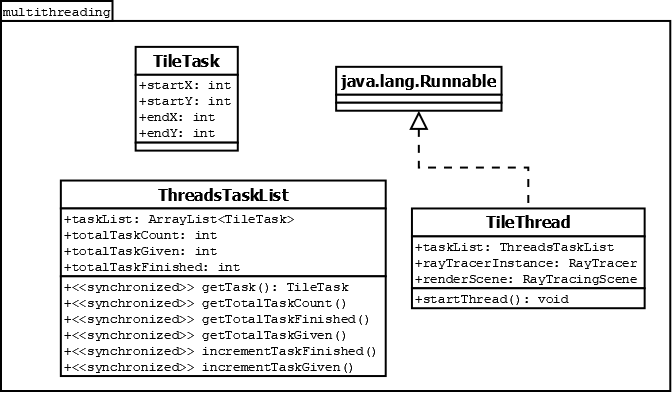
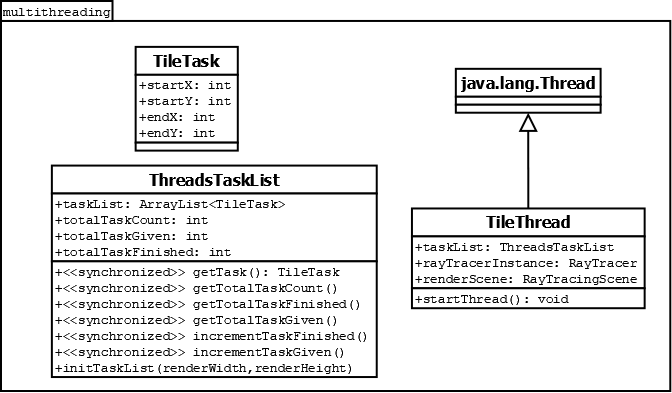
Correction de la dépendance des nombres aléatoires sur les threads. Mise à jour du diagramme multithreading

diff --git a/dev/src/rayTracer/RayTracer.java b/dev/src/rayTracer/RayTracer.java
@@ -103,7 +103,7 @@ public class RayTracer
 	private ThreadsTaskList threadTaskList;
 	private IntBuffer renderedPixels;
 	private PixelReader skyboxPixelReader = null;
-	private Random randomGenerator;
+	private Random randomGenerator;//Générateur de nombre aléatoire qui servira uniquement au thread principal
 	
 	public RayTracer(int renderWidth, int renderHeight)
 	{
@@ -257,9 +257,21 @@ public class RayTracer
 					reflectDirection = perfectReflectDirection;
 				else
 				{
-					double randomX = randomGenerator.nextDouble() * 2 - 1;
-					double randomY = randomGenerator.nextDouble() * 2 - 1;
-					double randomZ = randomGenerator.nextDouble() * 2 - 1;
+					double randomX;
+					double randomY;
+					double randomZ;
+					
+					Thread currentThread = Thread.currentThread();
+					Random localRandomGenerator = null;
+					
+					if(currentThread instanceof TileThread)//Si le thread courant n'est pas le thread principal mais un thread de calcul
+						localRandomGenerator = ((TileThread)currentThread).getLocalRandomGenerator();//On récupère le générateur de nombre aléatoire local au thread de calcul
+					else
+						localRandomGenerator = this.randomGenerator;
+					
+					randomX = localRandomGenerator.nextDouble() * 2 - 1;
+					randomY = localRandomGenerator.nextDouble() * 2 - 1;
+					randomZ = localRandomGenerator.nextDouble() * 2 - 1;
 					
 					Vector randomBounce = Vector.normalizeV(Vector.add(Vector.normalizeV(new Vector(randomX, randomY, randomZ)), intInfos.getNormInt()));
 					Vector randomBounceDirection = Vector.normalizeV(Vector.interpolate(perfectReflectDirection, randomBounce, intInfos.getIntObjMat().getRoughness()));
@@ -438,6 +450,15 @@ public class RayTracer
 	 */
 	protected void computePartialImage(RayTracingScene renderScene, int startX, int startY, int endX, int endY)
 	{
+		Thread currentThread = Thread.currentThread();
+		Random localRandomGenerator = null;
+		if(currentThread instanceof TileThread)
+			localRandomGenerator = ((TileThread)currentThread).getLocalRandomGenerator();
+		else
+			localRandomGenerator = this.randomGenerator;
+		localRandomGenerator.setSeed(Integer.parseInt(String.format("%d%d", startX, startY)));//On réinitialise la graine du générateur pour la tuile à calculer avec un nombre
+		//unique construit à partir des coordonnées de départ de la tuile
+		
 		MatrixD ctwMatrix = renderScene.getCamera().getCTWMatrix();
 
 		double FOV = renderScene.getCamera().getFOV();
@@ -454,7 +475,7 @@ public class RayTracer
 				}
 				else
 				{
-					subpixelTab = new double[1][2];//Un seul pixel sera calculé pour chaque pixel
+					subpixelTab = new double[1][2];//Un seul sous-pixel sera calculé pour chaque pixel
 					subpixelTab[0][0] = 0;
 					subpixelTab[0][1] = 0;
 				}
@@ -846,13 +867,14 @@ public class RayTracer
 		}
 		
 		this.settings = new RayTracerSettings(renderSettings);//On crée une nouvelle instance de RayTracerSettings pour ne pas "lier dynamiquement" les réglages : cela pourrait causer des déchirement d'image lorsqu'on change les réglages pendant un rendu
-		this.threadTaskList.initTaskList(settings.getNbCore(), renderWidth, renderHeight);
+		this.threadTaskList.initTaskList(renderWidth, renderHeight);
+		this.randomGenerator = new Random(0);//On réinitialise le générateur de nombre avec la graine 0
 		
 		if(renderScene.hasSkybox())
 			this.skyboxPixelReader = renderScene.getSkyboxPixelReader();
 
 		for(int i = 1; i < settings.getNbCore(); i++)//Création des threads sauf 1, le thread principal, qui est déjà créé
-			new Thread(new TileThread(threadTaskList, this, renderScene), String.format("RT-Thread %d", i)).start();
+			new TileThread(threadTaskList, this, renderScene).start();
 
 		while(threadTaskList.getTotalTaskFinished() < threadTaskList.getTotalTaskCount())
 			this.computeTask(renderScene, threadTaskList);

diff --git a/rapport/latex/ideesAmelios.tex b/rapport/latex/ideesAmelios.tex
@@ -1,12 +1,8 @@
 \documentclass [11pt]{article}
 
 \begin{document}
-	Un problème subsiste dans le calcul du rendu de la scène. Pour calculer le rendu plus rapidement, l'image à rendre est découpée en tuile.
-	Parfois, une des tuiles de l'image n'est pas rendue correctement. Cela a pour effet de faire "clignoter" des parties de l'image de temps à autre.
-	Ce bug n'apparaît que lorsque le rendu est effectué sur un nombre de threads supérieur à 1 mais reste tout de même assez aléatoire.
-	Nous pensons donc cette imperfection vient d'une synchronisation insuffisante entre les threads mais nous n'avons pas pu trouver la source exacte du problème.
-	
-	La question des performances est aussi au coeur des débats. Bien que notre application soit multithreadée, il n'est pas rare, lors de rendu de scène gourmande, que le
+	La question des performances est au coeur des débats. Bien que notre application soit multithreadée, il n'est pas rare, lors de rendu de scène gourmande, que le
 	temps de calcul d'une image dépasse plusieurs secondes. C'est un comportement potentiellement attendu d'un ray tracer, ces algorithmes étant coûteux en temps de calcul.
-	Nous trouvons toutefois cela dommage car les mouvements de notre caméra ne peuvent alors plus s'effectuer convenablement.
+	Nous trouvons toutefois cela dommage car les mouvements de notre caméra ne peuvent alors plus s'effectuer convenablement. Une idée serait alors d'optimiser d'une façon
+	ou d'une autre les temps de calcul de notre algorithme.
 \end{document}

diff --git a/dev/src/multithreading/TileThread.java b/dev/src/multithreading/TileThread.java
@@ -1,26 +1,51 @@
 package multithreading;
 
+import java.util.Random;
+
 import rayTracer.RayTracer;
 import scene.RayTracingScene;
 
-public class TileThread implements Runnable
+public class TileThread extends Thread
 {
 	private ThreadsTaskList taskList;
 	
 	private RayTracer rayTracerInstance;
 	private RayTracingScene renderScene;
 	
+	private Random randomGenerator;//Générateur de nombre aléatoire local au thread pour éviter le surcôut de synchronisation d'un seul générateur qui serait utilisé pour tous les threads
+	
 	public TileThread(ThreadsTaskList taskList, RayTracer rayTracerInstance, RayTracingScene renderScene) 
 	{
+		super(String.format("RT-Thread"));
+		
 		this.taskList = taskList;
 		
 		this.rayTracerInstance = rayTracerInstance;
 		this.renderScene = renderScene;
+		this.randomGenerator = new Random(0);
 	}
 	
 	@Override
 	public void run() 
 	{
 		while(this.rayTracerInstance.computeTask(this.renderScene, this.taskList)) {}//On calcule des tiles tant qu'il y en a à calculer
+	}
+	
+	/**
+	 * Permet d'obtenir le générateur de nombre aléatoire local au thrad
+	 */
+	public Random getLocalRandomGenerator()
+	{
+		return this.randomGenerator;
+	}
+	
+	/**
+	 * Permet de réinitialiser le générateur de nombre aléatoire local au thread avec la graine passée en paramètre  
+	 * 
+	 * @param seed La graîne avec laquelle le générateur sera réinitialisé.
+	 */
+	public void setLocalRandomGenerator(long seed)
+	{
+		this.randomGenerator.setSeed(seed);
 	}
 }

diff --git a/dev/src/render/MainApp.java b/dev/src/render/MainApp.java
@@ -6,6 +6,7 @@ import javafx.scene.paint.Color;
 import java.io.File;
 import java.net.URL;
 import java.util.ArrayList;
+import java.util.Random;
 
 import exceptions.InvalidParallelepipedException;
 import exceptions.InvalidSphereException;
@@ -29,6 +30,7 @@ import materials.textures.ProceduralTextureCheckerboard;
 import maths.ColorOperations;
 import maths.Point;
 import maths.Vector;
+import multithreading.TileThread;
 import povParser.Automat;
 import rayTracer.RayTracer;
 import rayTracer.RayTracerSettings;
@@ -57,22 +59,9 @@ public class MainApp extends Application {
         Application.launch(args);
 
     }
+    
     public void start(Stage stage) 
     {
-    	try
-    	{
-    		Integer.parseInt("1");
-    	}
-    	catch(Exception test)
-    	{
-    		test.printStackTrace();
-    	}
-    	finally
-    	{
-    		System.out.println("finally");
-    	}
-    	
-    	
         FileChooser fileChooser = new FileChooser();
 	   	fileChooser.setTitle("Selectionnez un fichier POV");
 	   	ExtensionFilter filter = new ExtensionFilter("POV", "*.pov");
@@ -102,8 +91,6 @@ public class MainApp extends Application {
 	   		Platform.exit();
 	   		System.exit(0);
 	   	}
-	   	
-	   	
 	   	
 	   	if(!rayTracingScene.hasSkybox())
 	   	{

diff --git a/dev/src/multithreading/ThreadsTaskList.java b/dev/src/multithreading/ThreadsTaskList.java
@@ -52,16 +52,16 @@ public class ThreadsTaskList
 	/**
 	 * Permet d'initialiser la liste des tâches
 	 * 
-	 * @param nbCore Combien de processeur de calcul va utiliser le rendu
 	 * @param renderWidth Largeur en pixel de l'image rendue
 	 * @param renderHeight Hauteur en pixel de l'image rendue
 	 */
-	public void initTaskList(int nbCore, int renderWidth, int renderHeight)
+	public void initTaskList(int renderWidth, int renderHeight)
 	{
 		this.taskList = new ArrayList<>();
 		
-		int tilesWidth = renderWidth / nbCore;
-		int tilesHeight = renderHeight / nbCore;
+		//un découpage en 64*64 tuiles semble être un bon choix (arbitraire) en terme de performances
+		int tilesWidth = renderWidth / 64;
+		int tilesHeight = renderHeight / 64;
 		
 		int tilesCountX = renderWidth / tilesWidth; tilesCountX = (tilesCountX * tilesWidth < renderWidth) ? tilesCountX + 1 : tilesCountX; 
 		int tilesCountY = renderHeight / tilesHeight; tilesCountY = (tilesCountY * tilesHeight < renderHeight) ? tilesCountY + 1 : tilesCountY;

diff --git a/dev/src/render/DoImageTask.java b/dev/src/render/DoImageTask.java
@@ -1,7 +1,6 @@
 package render;
 
 import java.nio.IntBuffer;
-import java.util.concurrent.locks.ReentrantLock;
 
 import javafx.concurrent.Task;
 import javafx.scene.Scene;
@@ -18,7 +17,7 @@ public class DoImageTask extends Task<IntBuffer> {
 	private Scene mainAppScene;
 	private RayTracerSettings rayTracerSettings;
 	private RayTracer rayTracer;
-
+	
 	DoImageTask(Scene mainAppScene, PixelWriter pw, WritablePixelFormat<IntBuffer> pixelFormat,RayTracer rayTracer, RayTracingScene rts, RayTracerSettings rayTracerSettings) {
 		this.mainAppScene = mainAppScene;
 		this.rayTracingScene = rts;
@@ -28,7 +27,8 @@ public class DoImageTask extends Task<IntBuffer> {
 
 	@Override
 	public IntBuffer call() {
-		synchronized (mainAppScene) {
+		synchronized (mainAppScene) 
+		{
 			pixelBuffer = rayTracer.renderImage(rayTracingScene, this.rayTracerSettings);
 		}
 		return pixelBuffer;
